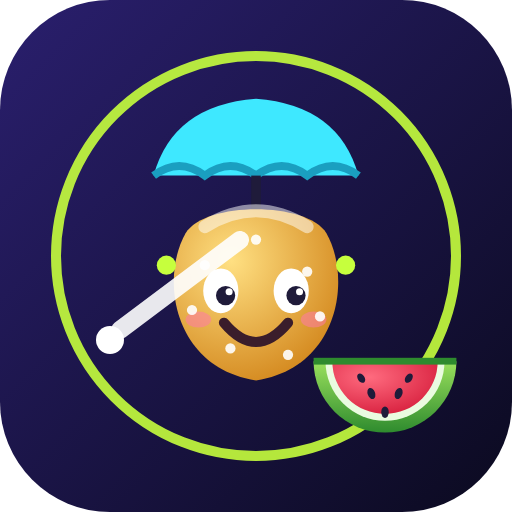
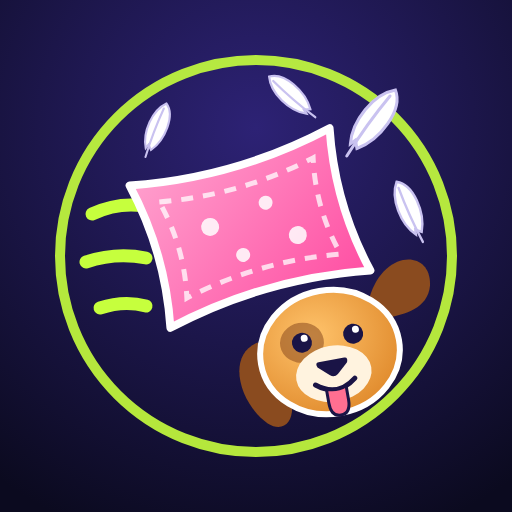
Estante: ícone novo da Bagunçolândia (0.8.19), fundos dos cartões (cartoes-fundos.css), trilha comum e app kids no RootifyONE
- Jogos e estante obedecem o app "kids" (Bolinho de Chuva) do RootifyONE: um interruptor por jogo; cartão some quando desligado.
- cartoes-fundos.css: fundo fosco por jogo; tirar a linha do index.html volta ao visual anterior.
- trilha.js: tocador comum dos jogos novos (começa no primeiro toque, lembra o mudo).

Claude-Session: https://claude.ai/code/session_017kvDvUq6KLhy6TeB6nXhXU

diff --git a/trilha.js b/trilha.js
@@ -1,0 +1,104 @@
+/* Trilha comum dos jogos do Bolinho de Chuva (desde 06/Nov/2026).
+   Um tocador pequeno, no canto da tela, com as músicas gravadas que o jogo escolher. As músicas já moram no
+   repositório, nas pastas musicas/ de cada jogo, com as licenças em <pasta>/musicas/LICENCAS.md. O jogo novo aponta
+   para elas com ../, sem copiar nenhum arquivo.
+
+   Uso:
+     <script src="../trilha.js"></script>
+     Trilha.iniciar({ jogo: 'labirinto', musicas: [ { a: '../rabiscolandia/musicas/carefree.mp3', t: 'Carefree',
+       au: 'Kevin MacLeod', lic: 'CC BY 4.0' }, ... ], creditos: 'CREDITOS.md' });
+     Trilha.volume(0.3)         // abaixa a música enquanto acontece outra coisa (null volta ao normal)
+     Trilha.tocando()           // true ou false
+
+   Como funciona:
+   - Toca uma música depois da outra, sem parar, e começa numa música aleatória.
+   - Tenta tocar sozinha ao abrir. Se o navegador barrar, começa no primeiro toque em qualquer lugar da tela. Escuta o
+     toque quando o dedo SOLTA (pointerup, touchend, click), que é o momento em que o navegador libera o som, e só para
+     de escutar depois que a música começou de verdade.
+   - 🔇 desliga, e o jogo lembra (bolinho:<jogo>:trilha-mudo). Os efeitos do jogo continuam.
+   - Música que não abre (sem internet) é pulada. Se nenhuma abre, o tocador some, sem erro na tela.
+   - Carrega no Node sem quebrar, para os testes: sem "document", não monta nada. */
+(function (raiz) {
+  'use strict';
+  var T = {};
+  function t(pt, en) { try { return /^en/i.test(document.documentElement.lang) ? en : pt; } catch (e) { return pt; } }
+  function ler(k) { try { return localStorage.getItem(k); } catch (e) { return null; } }
+  function gravar(k, v) { try { if (v == null) localStorage.removeItem(k); else localStorage.setItem(k, v); } catch (e) {} }
+
+  T.iniciar = function (op) {
+    if (typeof document === 'undefined' || !op || !op.musicas || !op.musicas.length) return T;
+    var lista = op.musicas, CH_MUDO = 'bolinho:' + op.jogo + ':trilha-mudo';
+    var atual = Math.floor(Math.random() * lista.length), falhas = 0, volBase = op.volume || 0.5, volFator = 1;
+    var audio = new Audio(); audio.preload = 'none'; audio.volume = volBase;
+
+    var st = document.createElement('style');
+    st.textContent = '.trilha{position:fixed;right:.6rem;bottom:.6rem;z-index:40;display:flex;align-items:center;gap:.2rem;' +
+      'padding:.25rem .5rem .25rem .25rem;border-radius:999px;background:rgba(20,16,58,.78);color:#fff;font:600 .8rem system-ui,sans-serif;' +
+      'max-width:calc(100% - 1.2rem);-webkit-backdrop-filter:blur(6px);backdrop-filter:blur(6px)}' +
+      '.trilha button{border:0;background:transparent;color:inherit;width:40px;height:40px;border-radius:50%;font-size:1.15rem;cursor:pointer}' +
+      '.trilha button:focus-visible{outline:3px solid #ffd166}' +
+      '.trilha .tr-nome{white-space:nowrap;overflow:hidden;text-overflow:ellipsis;max-width:11rem}' +
+      '.trilha .tr-nome a{color:#9ee7ff}' +
+      '.trilha.mini .tr-nome{display:none}' +
+      '@media (max-width:30rem){.trilha .tr-nome{max-width:7rem}}';
+    document.head.appendChild(st);
+    var bar = document.createElement('div');
+    bar.className = 'trilha'; bar.setAttribute('role', 'region'); bar.setAttribute('aria-label', t('Música', 'Music'));
+    bar.innerHTML = '<button type="button" class="tr-som"></button><button type="button" class="tr-prox" aria-label="' +
+      t('Próxima música', 'Next song') + '">⏭</button><span class="tr-nome" aria-live="polite"></span>';
+    document.body.appendChild(bar);
+    var bSom = bar.querySelector('.tr-som'), nome = bar.querySelector('.tr-nome');
+
+    function mudo() { return ler(CH_MUDO) === '1'; }
+    function pintar() {
+      var tocando = !audio.paused;
+      bSom.textContent = tocando ? '🔊' : '🔇';
+      bSom.setAttribute('aria-label', tocando ? t('Desligar a música', 'Turn music off') : t('Ligar a música', 'Turn music on'));
+      var m = lista[atual];
+      nome.innerHTML = '';
+      nome.appendChild(document.createTextNode('🎵 ' + m.t + ' · ' + m.au + ' · ' + m.lic + ' '));
+      if (op.creditos) { var a = document.createElement('a'); a.href = op.creditos; a.target = '_blank'; a.rel = 'noopener'; a.textContent = t('créditos', 'credits'); nome.appendChild(a); }
+    }
+    function carregar(n) { atual = (n + lista.length) % lista.length; audio.src = lista[atual].a; pintar(); }
+    function tocar() { var p = audio.play(); if (p && p.catch) p.catch(function () { pintar(); }); return p; }
+
+    bSom.addEventListener('click', function () {
+      if (audio.paused) { gravar(CH_MUDO, null); if (!audio.src) carregar(atual); tocar(); }
+      else { gravar(CH_MUDO, '1'); audio.pause(); }
+    });
+    bar.querySelector('.tr-prox').addEventListener('click', function () { gravar(CH_MUDO, null); carregar(atual + 1); tocar(); });
+    audio.addEventListener('play', pintar); audio.addEventListener('pause', pintar);
+    audio.addEventListener('playing', function () { falhas = 0; });
+    audio.addEventListener('ended', function () { carregar(atual + 1); tocar(); });
+    audio.addEventListener('error', function () {
+      if (!audio.src) return;
+      falhas++;
+      if (falhas < lista.length) { carregar(atual + 1); if (!mudo()) tocar(); }
+      else { bar.hidden = true; }
+    });
+
+    carregar(atual);
+    setTimeout(function () { bar.classList.add('mini'); }, 6000);
+    bar.addEventListener('pointerenter', function () { bar.classList.remove('mini'); });
+
+    if (!mudo()) {
+      var EVT = ['pointerup', 'touchend', 'click', 'keydown'];
+      var esperar = function (e) {
+        if (e && e.target && e.target.closest && e.target.closest('.trilha')) return;   // os botões do tocador cuidam de si
+        if (mudo() || !audio.paused) { soltar(); return; }
+        var p = tocar(); if (p && p.then) p.then(soltar, function () {}); else soltar();
+      };
+      var soltar = function () { EVT.forEach(function (k) { document.removeEventListener(k, esperar, true); }); };
+      var p0 = tocar();
+      if (p0 && p0.catch) p0.catch(function () { EVT.forEach(function (k) { document.addEventListener(k, esperar, true); }); });
+    }
+
+    T.volume = function (v) { volFator = v == null ? 1 : v; audio.volume = Math.max(0, Math.min(1, volBase * volFator)); };
+    T.tocando = function () { return !audio.paused; };
+    T.parar = function () { audio.pause(); };
+    T._audio = audio;
+    return T;
+  };
+  T.volume = function () {}; T.tocando = function () { return false; }; T.parar = function () {};
+  if (typeof module !== 'undefined' && module.exports) module.exports = T; else raiz.Trilha = T;
+})(typeof self !== 'undefined' ? self : this);

diff --git a/catalogo.js b/catalogo.js
@@ -7,6 +7,7 @@
     id       nome curto, sem espaço (identifica o jogo)
     nome     nome que aparece no cartão
     ico      emoji do cartão          cor   cor de destaque do cartão
+    img      (opcional) imagem do cartão no lugar do emoji, ex.: '/kids/baguncolandia/icone.svg'
     url      endereço do jogo a partir da raiz do site (funciona em solverone.com.br e no endereço antigo)
     texto    descrição em português   en    descrição em inglês   tag   texto do botão do cartão
     instalar true = pode ser instalado e funciona sem internet (o service worker fica em url + 'sw.js')
@@ -18,7 +19,7 @@
 */
 (function () {
   var JOGOS = [
-    { id: 'baguncolandia', nome: 'Bagunçolândia', ico: '🍉', cor: '#c6ff3d', url: '/kids/baguncolandia/',
+    { id: 'baguncolandia', nome: 'Bagunçolândia', ico: '🐶', img: '/kids/baguncolandia/icone.svg', cor: '#c6ff3d', url: '/kids/baguncolandia/',
       texto: 'Frutas, doces e personagens voam na TV e você corta, pega, chuta, pula e abaixa com o corpo. 1 ou 2 pessoas, boneco personalizável, ou no dedo no celular.',
       en: 'Slice, catch, kick, jump and duck with your body on the TV. Or by finger on the phone.',
       tag: '▶ Brincar / Play', instalar: true,
@@ -76,10 +77,17 @@
     a.style.setProperty('--c', j.cor);
     a.href = j.url;
     a.setAttribute('data-jogo', j.id);
+    // interruptor do RootifyONE (Controle dos apps → Bolinho de Chuva): jogo desligado some da estante (recursos.js)
+    if (/^\/kids\//.test(j.url)) a.setAttribute('data-recurso', j.id);
     if (j.tv) a.setAttribute('data-tv', j.tv.param || '?tv=auto');
     if (j.instalar) { a.setAttribute('data-instalar', j.url); a.setAttribute('data-sw', window.BolinhoCatalogo.sw(j)); }
     else if (j.soOnline) a.setAttribute('data-so-online', '');
-    a.appendChild(el('div', 'ico', j.ico));
+    var ico = a.appendChild(el('div', 'ico', j.img ? null : j.ico));
+    if (j.img) {
+      var im = document.createElement('img');
+      im.src = j.img; im.alt = ''; im.style.cssText = 'display:block;width:1em;height:1em;border-radius:.22em';
+      ico.appendChild(im);
+    }
     a.appendChild(el('h2', null, j.nome));
     a.appendChild(el('p', null, j.texto));
     if (j.en) a.appendChild(el('p', 'en', j.en));

diff --git a/cartoes-fundos.css b/cartoes-fundos.css
@@ -1,0 +1,20 @@
+/* Fundos desenhados dos cartões da estante (um tema por jogo), bem clarinhos e foscos para o texto ficar fácil de ler.
+   TUDO deste visual mora aqui e na pasta cartoes/. Para voltar ao visual antigo, apague no index.html a linha
+   <link rel="stylesheet" href="/kids/cartoes-fundos.css"> — nada mais muda.
+   Jogo novo sem desenho próprio usa cartoes/generico.svg; para dar um tema a ele, crie cartoes/<id>.svg e uma linha abaixo
+   com .card[data-jogo="<id>"]::before. O cartão "Em breve" não tem data-jogo e fica como sempre. */
+.card[data-jogo]{position:relative;isolation:isolate;overflow:hidden}
+/* o desenho, desfocado e quase transparente */
+.card[data-jogo]::before{content:"";position:absolute;inset:-8px;z-index:-1;pointer-events:none;
+  background:url(cartoes/generico.svg) center/cover no-repeat;opacity:.2;filter:blur(1.5px) saturate(1.15)}
+/* o "vidro fosco" por cima do desenho: a cor do cartão, mais forte embaixo, onde fica o texto */
+.card[data-jogo]::after{content:"";position:absolute;inset:0;z-index:-1;pointer-events:none;
+  background:linear-gradient(180deg,rgba(34,27,77,.25),rgba(34,27,77,.55) 55%,rgba(34,27,77,.7))}
+.card[data-jogo="baguncolandia"]::before{background-image:url(cartoes/baguncolandia.svg)}
+.card[data-jogo="peluqueria"]::before{background-image:url(cartoes/peluqueria.svg)}
+.card[data-jogo="danca-na-sala"]::before{background-image:url(cartoes/danca-na-sala.svg)}
+.card[data-jogo="vruuum"]::before{background-image:url(cartoes/vruuum.svg)}
+.card[data-jogo="purpurina"]::before{background-image:url(cartoes/purpurina.svg)}
+.card[data-jogo="rabiscolandia"]::before{background-image:url(cartoes/rabiscolandia.svg)}
+/* celular: ainda mais clarinho, para não poluir a tela pequena */
+@media (max-width:40rem){.card[data-jogo]::before{opacity:.13;filter:blur(2px)}}

diff --git a/sw.js b/sw.js
@@ -7,12 +7,14 @@
   Este endereço (/kids/sw.js) é o mesmo da antiga página /kids do Portal: quem já tinha, atualiza sozinho.
   A cada mudança na estante, suba a VERSAO.
 */
-var VERSAO = 7;
+var VERSAO = 8;
 var PASTA = (self.registration.scope.replace(/\/$/, '').split('/').pop() || 'raiz');
 var PREFIXO = 'dgo-' + PASTA + '-';
 var CACHE = PREFIXO + 'v' + VERSAO;
-var BASICO = ['./', 'manifest.webmanifest', 'estante.css', 'catalogo.js', 'jogos.js', 'kids.js', 'instalar.js',
-  'radio.js', 'tela-cheia.js', 'icone-192.png', 'icone-512.png', 'icone-180.png'];
+var BASICO = ['./', 'manifest.webmanifest', 'estante.css', 'catalogo.js', 'jogos.js', 'kids.js', 'instalar.js', 'recursos.js', 'trilha.js',
+  'radio.js', 'tela-cheia.js', 'icone-192.png', 'icone-512.png', 'icone-180.png',
+  'cartoes-fundos.css', 'cartoes/baguncolandia.svg', 'cartoes/peluqueria.svg', 'cartoes/danca-na-sala.svg', 'cartoes/vruuum.svg',
+  'cartoes/purpurina.svg', 'cartoes/rabiscolandia.svg', 'cartoes/generico.svg', 'baguncolandia/icone.svg'];
 
 self.addEventListener('install', function (e) {
   e.waitUntil(caches.open(CACHE).then(function (c) { return Promise.all(BASICO.map(function (u) { return c.add(u).catch(function () {}); })); }).then(function () { return self.skipWaiting(); }));

diff --git a/baguncolandia/sw.js b/baguncolandia/sw.js
@@ -2,7 +2,7 @@
    baixar de novo. Código (html, js, css, json): rede primeiro com 4 s de espera, senão a cópia;
    fonte, imagens e biblioteca: cópia primeiro. Cache com o nome do app (nunca apaga o dos outros apps
    da mesma origem). Subir VERSAO a cada release (igual a APP_VERSION em app.js). */
-var VERSAO = '0.8.18';
+var VERSAO = '0.8.19';
 var CACHE = 'bagunca-v' + VERSAO;
 var ARQUIVOS = ['./', 'index.html', 'estilo.css', 'app.js', 'jogo.js', 'casa.js', 'figuras.js', 'cenas.js', 'boneco.js', 'desenho.js', 'sala.js', 'voz.js', 'som.js', 'calibrar.js', 'config.js', 'batida.js', 'spotify.js', 'esqueleto.js', 'libs/supabase.js', 'fontes/fredoka.woff2', 'icone-192.png', 'icone-512.png', 'manifest.webmanifest', 'versoes.json', '../recursos.js', '../atualizar.js', '../telacheia.js'];
 // A parte da câmera (MediaPipe em libs/mediapipe/, ~28 MB) só baixava na primeira vez que alguém ligava o boneco;

diff --git a/index.html b/index.html
@@ -12,6 +12,7 @@
 <meta name="apple-mobile-web-app-title" content="Bolinho">
 <meta name="mobile-web-app-capable" content="yes">
 <link rel="stylesheet" href="/kids/estante.css">
+<link rel="stylesheet" href="/kids/cartoes-fundos.css">
 <!--
   Bolinho de Chuva — a estante das brincadeiras para criança da SolverONE.
   ESTA PÁGINA E A /kids SÃO A MESMA COISA: carregam o mesmo estante.css e os mesmos scripts; /kids é só
@@ -37,6 +38,7 @@
   </footer>
 </div>
 
+<script src="/kids/recursos.js" data-app="kids"></script>
 <script src="/kids/catalogo.js"></script>
 <script src="/kids/jogos.js"></script>
 <script src="/kids/kids.js"></script>

diff --git a/purpurina/index.html b/purpurina/index.html
@@ -251,7 +251,7 @@
 <script src="boneca.js"></script>
 <script src="som.js"></script>
 <script src="baixar.js"></script>
-<script src="../recursos.js" data-app="feature-tester" data-fora-do-arquivo></script>
+<script src="../recursos.js" data-app="kids" data-fora-do-arquivo></script>
 <script src="../janela.js" data-fora-do-arquivo></script>
 <script src="../cofre.js" data-fora-do-arquivo></script>
 <script src="../atualizar.js" data-fora-do-arquivo></script>

diff --git a/vruuum/index.html b/vruuum/index.html
@@ -205,7 +205,7 @@
 <script src="maos.js"></script>
 <script src="selfie.js"></script>
 <script src="baixar.js"></script>
-<script src="../recursos.js" data-app="feature-tester" data-fora-do-arquivo></script>
+<script src="../recursos.js" data-app="kids" data-fora-do-arquivo></script>
 <script src="../atualizar.js" data-fora-do-arquivo></script>
 <script src="../telacheia.js" data-fora-do-arquivo></script>
 <script src="app.js"></script>

diff --git a/rabiscolandia/index.html b/rabiscolandia/index.html
@@ -210,7 +210,7 @@
 <script src="som.js"></script>
 <script src="pintura.js"></script>
 <script src="mao.js"></script>
-<script src="../recursos.js" data-app="feature-tester" data-fora-do-arquivo></script>
+<script src="../recursos.js" data-app="kids" data-fora-do-arquivo></script>
 <script src="../atualizar.js" data-fora-do-arquivo></script>
 <script src="../telacheia.js" data-fora-do-arquivo></script>
 <script src="tour.js"></script>

diff --git a/baguncolandia/app.js b/baguncolandia/app.js
@@ -3,7 +3,7 @@
    Partes: comum · TVApp (também o modo "só o celular") · CelApp · botões. */
 (function () {
   'use strict';
-  var APP_VERSION = '0.8.18', APP_UPDATED = '05/11/2026';
+  var APP_VERSION = '0.8.19', APP_UPDATED = '06/11/2026';
   var EN = /^en/i.test(navigator.language || '');
   function T(pt, en) { return EN ? en : pt; }
   var $ = function (id) { return document.getElementById(id); };

diff --git a/baguncolandia/index.html b/baguncolandia/index.html
@@ -268,7 +268,7 @@
 <script src="batida.js"></script>
 <script src="spotify.js"></script>
 <script src="esqueleto.js"></script>
-<script src="../recursos.js" data-app="feature-tester"></script>
+<script src="../recursos.js" data-app="kids"></script>
 <script src="../atualizar.js" data-fora-do-arquivo></script>
 <script src="../telacheia.js" data-fora-do-arquivo></script>
 <script src="app.js"></script>

diff --git a/peluqueria/index.html b/peluqueria/index.html
@@ -153,7 +153,7 @@
 <script src="partida.js"></script>
 <script src="sala.js"></script>
 <script src="esqueleto.js"></script>
-<script src="../recursos.js" data-app="feature-tester"></script>
+<script src="../recursos.js" data-app="kids"></script>
 <script src="../atualizar.js" data-fora-do-arquivo></script>
 <script src="../telacheia.js" data-fora-do-arquivo></script>
 <script src="app.js"></script>
